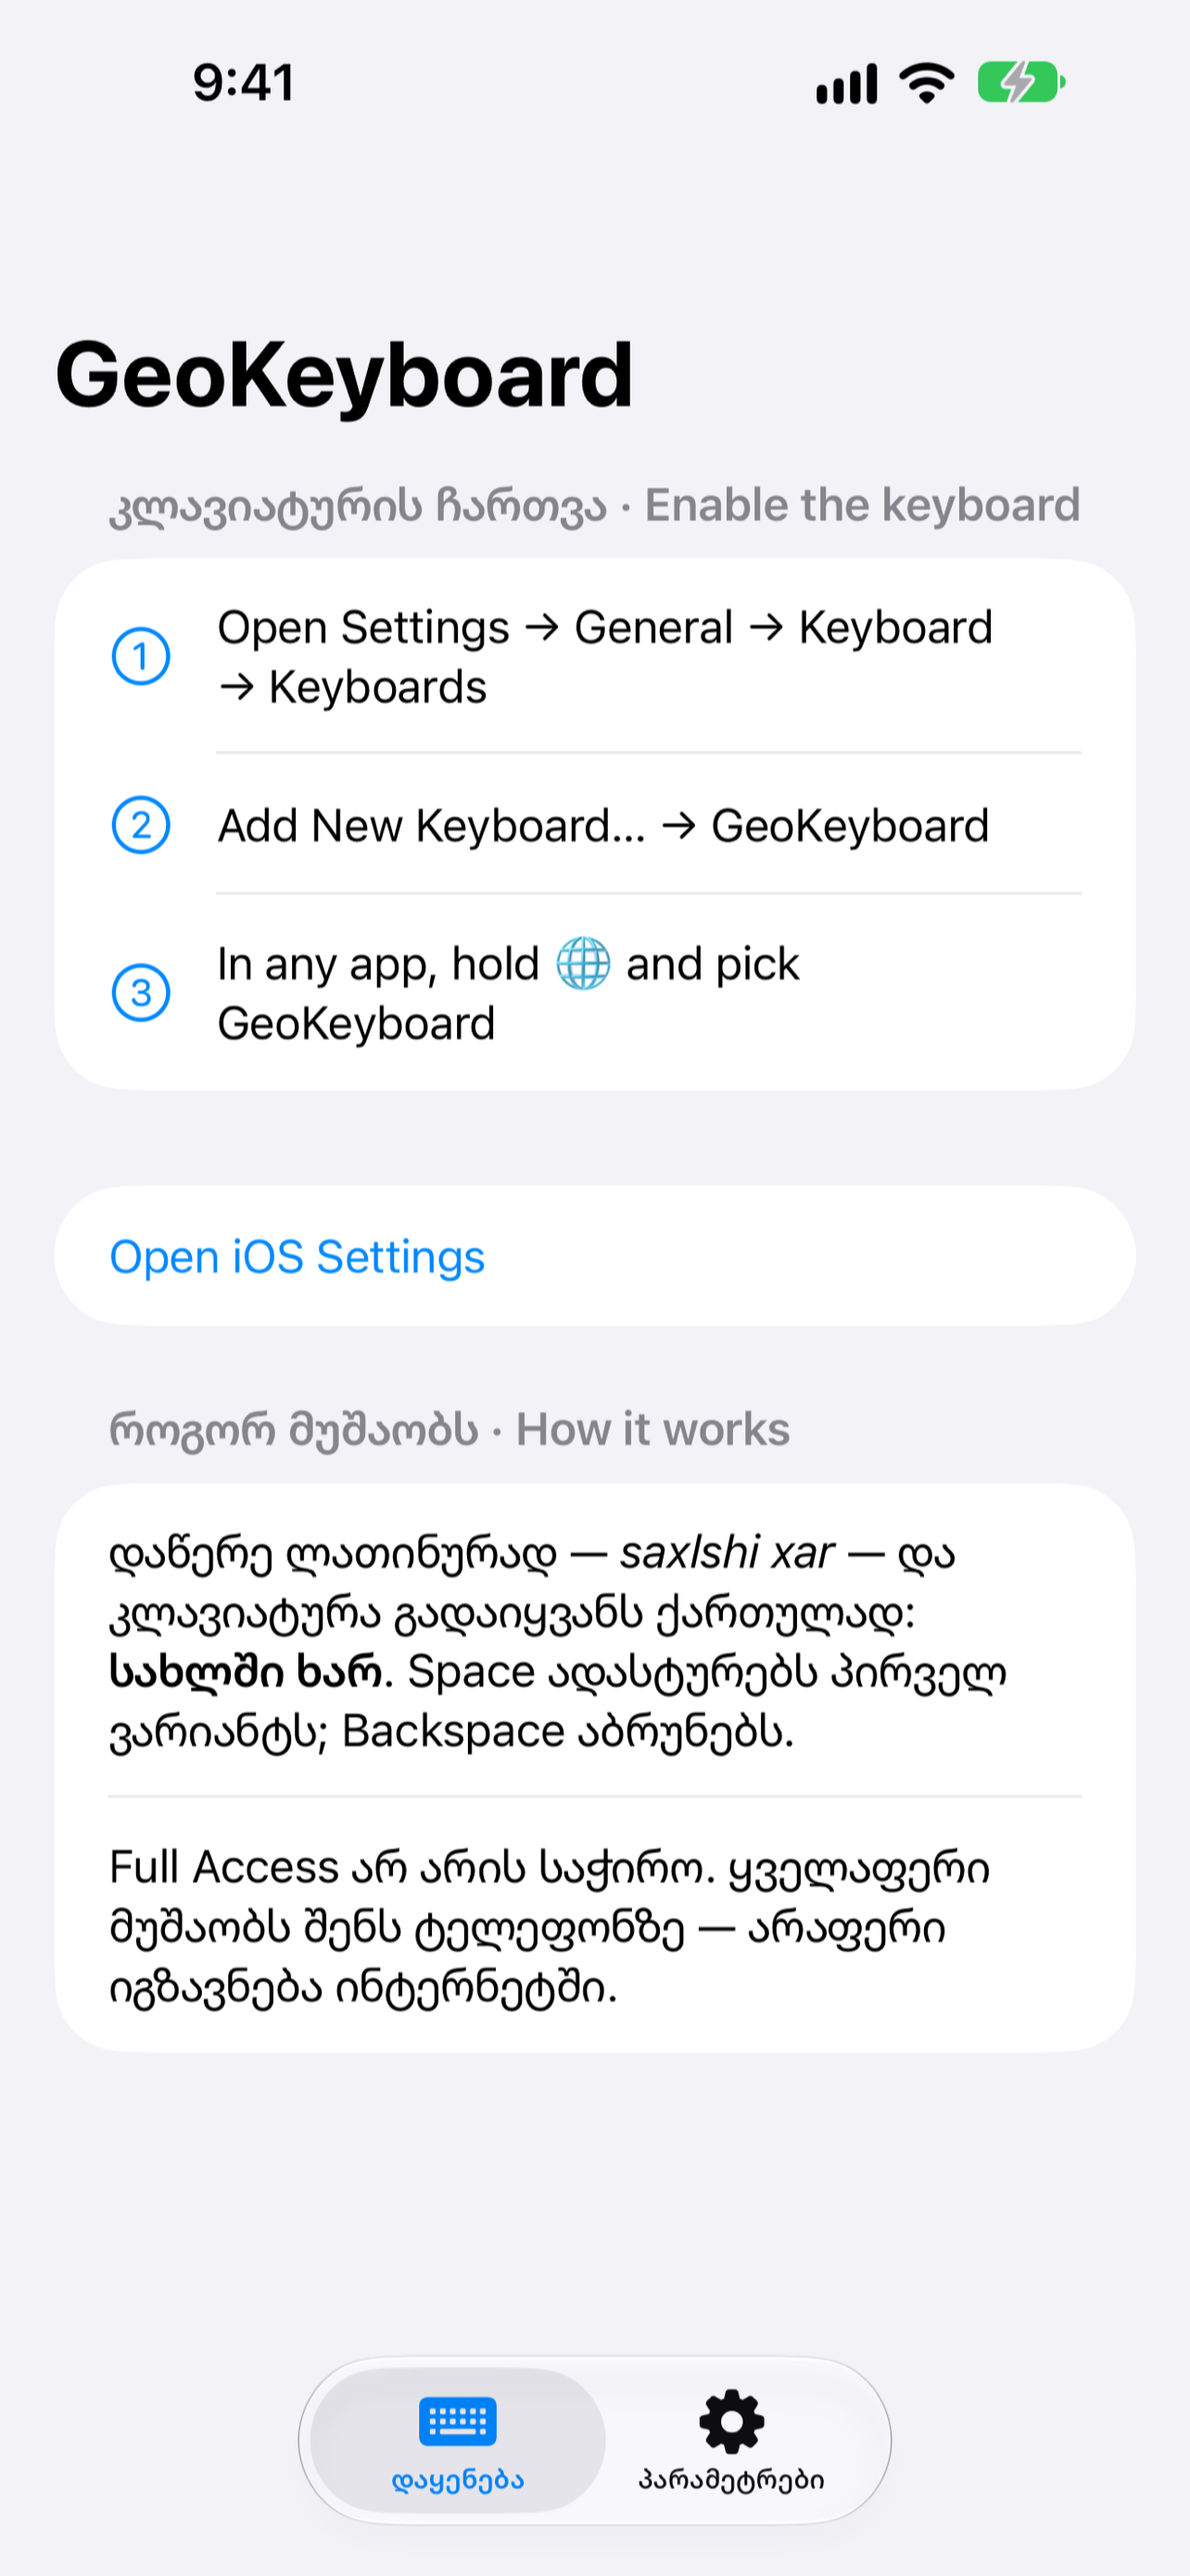
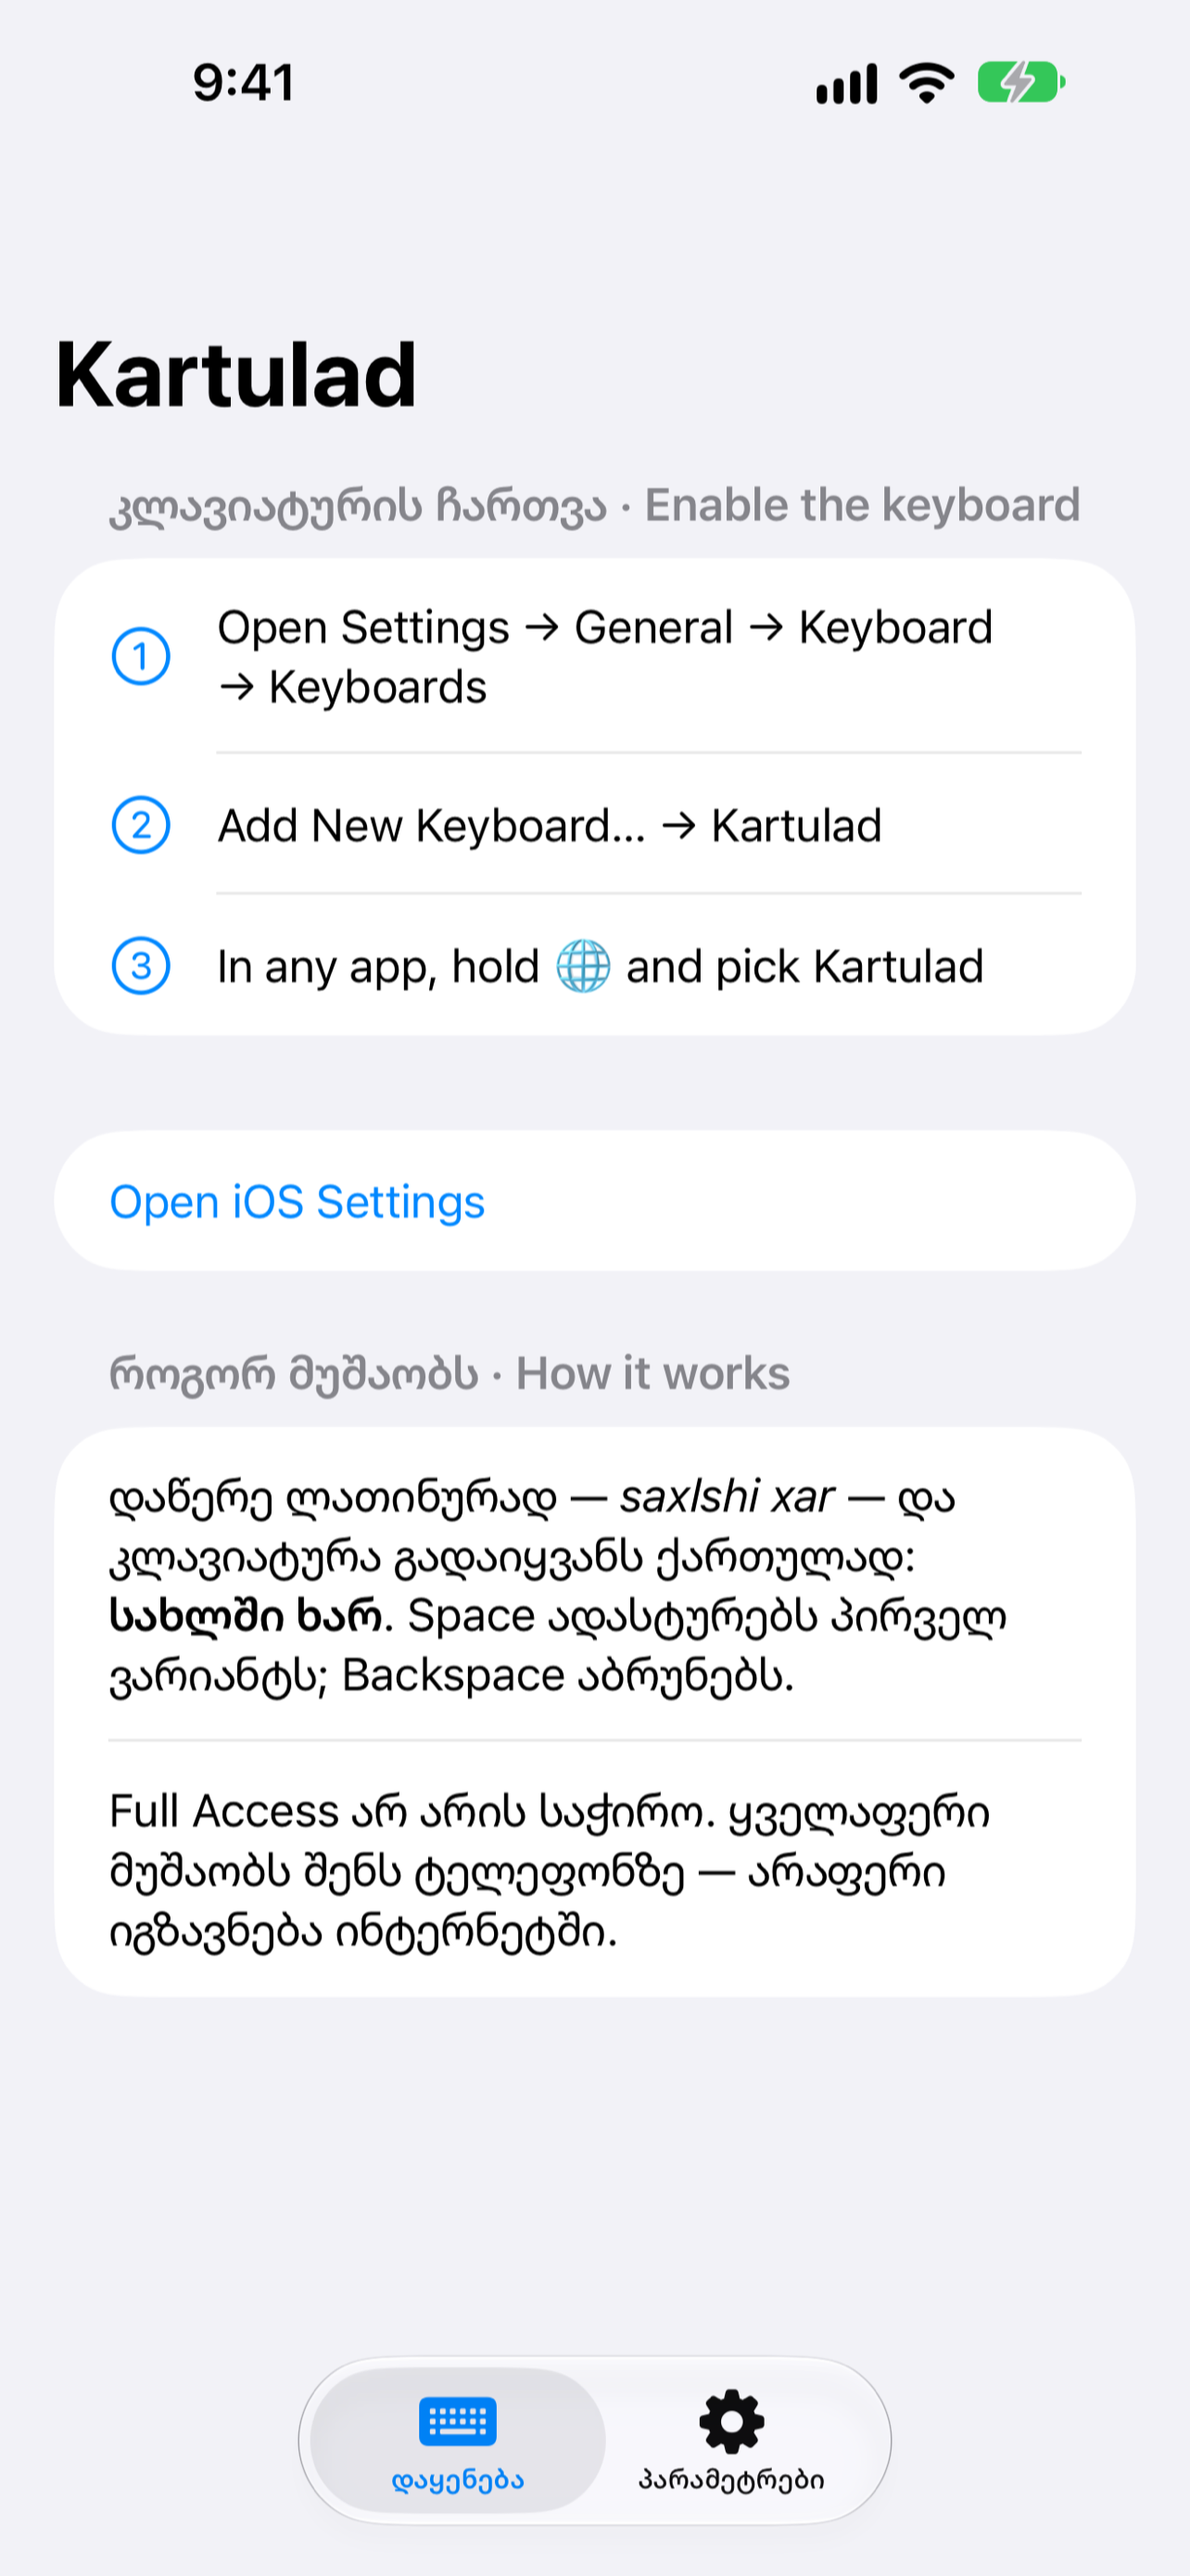
Rename the app to Kartulad
App Store name "Kartulad: abc → ქართული", subtitle "Georgian keyboard
for QWERTY". Updates the home-screen and keyboard-list names, in-app
text, privacy page, launch guide and screenshot 5. Bundle IDs, targets and
the repo keep the GeoKeyboard name.

The App Store has no Georgian localization, so the listing is now a single
English (U.S.) listing with the Georgian description appended.

diff --git a/docs/privacy.html b/docs/privacy.html
@@ -3,7 +3,7 @@
 <head>
 <meta charset="UTF-8">
 <meta name="viewport" content="width=device-width, initial-scale=1.0">
-<title>GeoKeyboard — Privacy Policy</title>
+<title>Kartulad — Privacy Policy</title>
 <style>
   :root { --bg: #0e0e11; --text: #f2f2f4; --muted: #8e8e97; --accent: #4f8ef7; --panel: #1b1b20; }
   @media (prefers-color-scheme: light) {
@@ -22,10 +22,10 @@
 </head>
 <body>
 <main>
-  <h1>GeoKeyboard — Privacy Policy</h1>
+  <h1>Kartulad — Privacy Policy</h1>
   <p class="muted">Effective 13 October 2026</p>
 
-  <div class="box"><strong>Short version:</strong> GeoKeyboard does not collect, store, or transmit anything you type. Everything happens on your iPhone.</div>
+  <div class="box"><strong>Short version:</strong> Kartulad does not collect, store, or transmit anything you type. Everything happens on your iPhone.</div>
 
   <h2>What you type</h2>
   <p>All Latin→Georgian conversion, autocorrect and next-word prediction run on your device using a dictionary bundled with the app. The keyboard does not request “Allow Full Access” and has no network access. Your keystrokes never leave your phone.</p>
@@ -37,7 +37,7 @@
   <p>Your preferences (default layout, autocorrect on/off) are stored locally on your device in a container shared between the app and its keyboard. They are not sent anywhere.</p>
 
   <h2>Children</h2>
-  <p>GeoKeyboard collects no personal information from anyone, including children.</p>
+  <p>Kartulad collects no personal information from anyone, including children.</p>
 
   <h2>Changes</h2>
   <p>If this policy changes, the updated version will be posted on this page with a new effective date.</p>
@@ -47,8 +47,8 @@
 
   <hr>
 
-  <h1 lang="ka">GeoKeyboard — კონფიდენციალურობის პოლიტიკა</h1>
-  <div class="box" lang="ka"><strong>მოკლედ:</strong> GeoKeyboard არ აგროვებს, არ ინახავს და არ აგზავნის იმას, რასაც წერ. ყველაფერი ხდება შენს iPhone-ზე.</div>
+  <h1 lang="ka">Kartulad — კონფიდენციალურობის პოლიტიკა</h1>
+  <div class="box" lang="ka"><strong>მოკლედ:</strong> Kartulad არ აგროვებს, არ ინახავს და არ აგზავნის იმას, რასაც წერ. ყველაფერი ხდება შენს iPhone-ზე.</div>
   <p lang="ka">ლათინურიდან ქართულზე გადაყვანა, ავტოკორექცია და შემდეგი სიტყვის შეთავაზება მუშაობს მოწყობილობაზე, აპთან ერთად მოყოლილი ლექსიკონით. კლავიატურა არ ითხოვს „სრულ წვდომას“ და არ აქვს ინტერნეტთან კავშირი.</p>
   <p lang="ka">არ გვაქვს ანგარიშები, ანალიტიკა, რეკლამა ან მესამე მხარის SDK-ები. პარამეტრები ინახება მხოლოდ შენს მოწყობილობაზე.</p>
 </main>

diff --git a/ios-app/GeoKeyboard/HostApp/GeoKeyboardApp.swift b/ios-app/GeoKeyboard/HostApp/GeoKeyboardApp.swift
@@ -20,8 +20,8 @@ struct OnboardingView: View {
             List {
                 Section("კლავიატურის ჩართვა · Enable the keyboard") {
                     Label("Open Settings → General → Keyboard → Keyboards", systemImage: "1.circle")
-                    Label("Add New Keyboard… → GeoKeyboard", systemImage: "2.circle")
-                    Label("In any app, hold 🌐 and pick GeoKeyboard", systemImage: "3.circle")
+                    Label("Add New Keyboard… → Kartulad", systemImage: "2.circle")
+                    Label("In any app, hold 🌐 and pick Kartulad", systemImage: "3.circle")
                 }
                 Section {
                     Button("Open iOS Settings") {
@@ -35,7 +35,7 @@ struct OnboardingView: View {
                     Text("Full Access არ არის საჭირო. ყველაფერი მუშაობს შენს ტელეფონზე — არაფერი იგზავნება ინტერნეტში.")
                 }
             }
-            .navigationTitle("GeoKeyboard")
+            .navigationTitle("Kartulad")
         }
     }
 }

diff --git a/store/listing.md b/store/listing.md
@@ -1,4 +1,4 @@
-# App Store listing — GeoKeyboard
+# App Store listing — Kartulad
 
 Copy-paste source for App Store Connect. Character limits in parentheses.
 
@@ -10,7 +10,7 @@ Copy-paste source for App Store Connect. Character limits in parentheses.
 | Keyboard extension bundle ID | `com.sandrogavtadze.GeoKeyboard.keyboard` |
 | App Group | `group.com.sandrogavtadze.geokeyboard` |
 | SKU | `geokeyboard-ios` |
-| Primary language | English (U.S.); add Georgian localization |
+| Primary language | English (U.S.) — the App Store has no Georgian localization, so the Georgian text goes in the same description |
 | Category | Utilities (secondary: Productivity) |
 | Age rating | 4+ |
 | Price | Free (no in-app purchases) |
@@ -18,17 +18,19 @@ Copy-paste source for App Store Connect. Character limits in parentheses.
 | Support URL | https://github.com/SandroGavtadze/geo-keyboard/issues |
 | Marketing URL | https://sandrogavtadze.github.io/geo-keyboard/ |
 
-## English (U.S.)
+## Listing (English U.S.)
 
-**Name (30):** GeoKeyboard: Georgian Typing
+**Name (30):** Kartulad: abc → ქართული
 
-**Subtitle (30):** Type Latin, get ქართული
+If App Store Connect rejects the arrow, use `Kartulad: abc to ქართული`.
+
+**Subtitle (30):** Georgian keyboard for QWERTY
 
 **Promotional text (170):**
-Type Georgian the way you already text it — in Latin letters. GeoKeyboard converts as you go: saxlshi xar? → სახლში ხარ?
+Type Georgian the way you already text it — in Latin letters. Kartulad converts as you go: saxlshi xar? → სახლში ხარ?
 
 **Description (4000):**
-GeoKeyboard lets you write Georgian without hunting for letters. Type phonetically on the QWERTY layout you already know and the keyboard turns it into proper Georgian script as you type.
+Kartulad lets you write Georgian without hunting for letters. Type phonetically on the QWERTY layout you already know and the keyboard turns it into proper Georgian script as you type.
 
 saxlshi xar? → სახლში ხარ?
 gamarjoba, rogor xar → გამარჯობა, როგორ ხარ
@@ -56,22 +58,9 @@ PRIVATE BY DESIGN
 FREE
 Everything is free: typing, live conversion, autocorrect and next-word predictions. No ads, no subscription, no in-app purchases.
 
-**Keywords (100):**
-georgian,keyboard,kartuli,qartuli,translit,latin,ქართული,კლავიატურა,georgia,tbilisi,phonetic,ime
+— ქართულად —
 
-**What's New (first version):** Initial release.
-
-## Georgian (ქართული)
-
-**Name (30):** GeoKeyboard: ქართული
-
-**Subtitle (30):** წერე ლათინურად — მიიღე ქართული
-
-**Promotional text (170):**
-წერე ქართულად ისე, როგორც ისედაც წერ — ლათინური ასოებით. GeoKeyboard თავად გადაიყვანს: saxlshi xar? → სახლში ხარ?
-
-**Description:**
-GeoKeyboard-ით ქართულად წერა აღარ მოითხოვს ასოების ძებნას. აკრიფე ლათინურად, ნაცნობ QWERTY განლაგებაზე, და კლავიატურა წერის პროცესშივე გადაიყვანს ტექსტს ქართულ დამწერლობაზე.
+Kartulad-ით ქართულად წერა აღარ მოითხოვს ასოების ძებნას. აკრიფე ლათინურად, ნაცნობ QWERTY განლაგებაზე, და კლავიატურა წერის პროცესშივე გადაიყვანს ტექსტს ქართულ დამწერლობაზე.
 
 saxlshi xar? → სახლში ხარ?
 gamarjoba, rogor xar → გამარჯობა, როგორ ხარ
@@ -100,7 +89,9 @@ gamarjoba, rogor xar → გამარჯობა, როგორ ხარ
 ყველაფერი უფასოა: წერა, ცოცხალი გადაყვანა, ავტოკორექცია და შემდეგი სიტყვის შეთავაზება. რეკლამის, გამოწერისა და აპშიდა შენაძენების გარეშე.
 
 **Keywords (100):**
-ქართული,კლავიატურა,ლათინური,ტრანსლიტი,საქართველო,keyboard,georgian,kartuli,qartuli
+kartuli,qartuli,translit,transliteration,latin,phonetic,კლავიატურა,ქართულად,georgia,tbilisi,ime
+
+**What's New (first version):** Initial release.
 
 ## App Privacy (nutrition label)
 
@@ -108,11 +99,11 @@ Data collection: **No, we do not collect data from this app.**
 
 ## App Review notes
 
-GeoKeyboard is a custom keyboard extension for typing Georgian phonetically in Latin letters.
+Kartulad is a custom keyboard extension for typing Georgian phonetically in Latin letters.
 
 To test:
-1. Launch the app, then Settings → General → Keyboard → Keyboards → Add New Keyboard… → GeoKeyboard.
-2. Open Notes or Messages, hold the globe key and select GeoKeyboard.
+1. Launch the app, then Settings → General → Keyboard → Keyboards → Add New Keyboard… → Kartulad.
+2. Open Notes or Messages, hold the globe key and select Kartulad.
 3. Type `saxlshi xar` — it converts live to “სახლში ხარ”. Space accepts the top candidate.
 4. The აბგ / abc key switches between Latin-conversion mode and direct Georgian letters; 123 opens numbers and symbols.
 

diff --git a/LAUNCH.md b/LAUNCH.md
@@ -1,4 +1,4 @@
-# Launching GeoKeyboard on the App Store
+# Launching Kartulad on the App Store
 
 End-to-end checklist. Copy for every field lives in [store/listing.md](store/listing.md).
 
@@ -36,13 +36,13 @@ The app is free with no in-app purchases, so the Paid Apps agreement, tax and ba
 
 ## 4. Create the app record
 
-App Store Connect → Apps → + → New App: platform iOS, name / language / bundle ID / SKU from `store/listing.md`.
+App Store Connect → Apps → + → New App: platform iOS, name / language / bundle ID / SKU from `store/listing.md`. Choose the app's bundle ID (`com.sandrogavtadze.GeoKeyboard`), not the keyboard extension's — it cannot be changed afterwards. If only the extension's ID is offered, register the app's ID first (step 2).
 
 Then fill in:
 - **App Information:** category, age rating, Privacy Policy URL
 - **Pricing and Availability:** Free, all territories
 - **App Privacy:** “Data Not Collected”
-- **Version 1.0 page:** promotional text, description, keywords, support + marketing URLs — EN, then add Georgian localization
+- **Version 1.0 page:** promotional text, description, keywords, support + marketing URLs — English (U.S.) only; the App Store has no Georgian localization, so the Georgian text sits below the English in the same description
 
 ## 5. Privacy page
 

diff --git a/ios-app/SETUP.md b/ios-app/SETUP.md
@@ -35,8 +35,8 @@ open GeoKeyboard.xcodeproj
 ## 4. Run it
 
 1. Select the **GeoKeyboard** scheme, choose your iPhone (plugged in or on the same Wi-Fi), press **▶**.
-2. On the phone: Settings → General → Keyboard → Keyboards → **Add New Keyboard…** → GeoKeyboard.
-3. In any app, hold the 🌐 key and pick **ქართული · GeoKeyboard**.
+2. On the phone: Settings → General → Keyboard → Keyboards → **Add New Keyboard…** → Kartulad.
+3. In any app, hold the 🌐 key and pick **ქართული · Kartulad**.
 4. Type `saxlshi xar`, press space — you should see **სახლში ხარ**.
 
 Do **not** enable Full Access — the keyboard doesn't need or ask for it.
